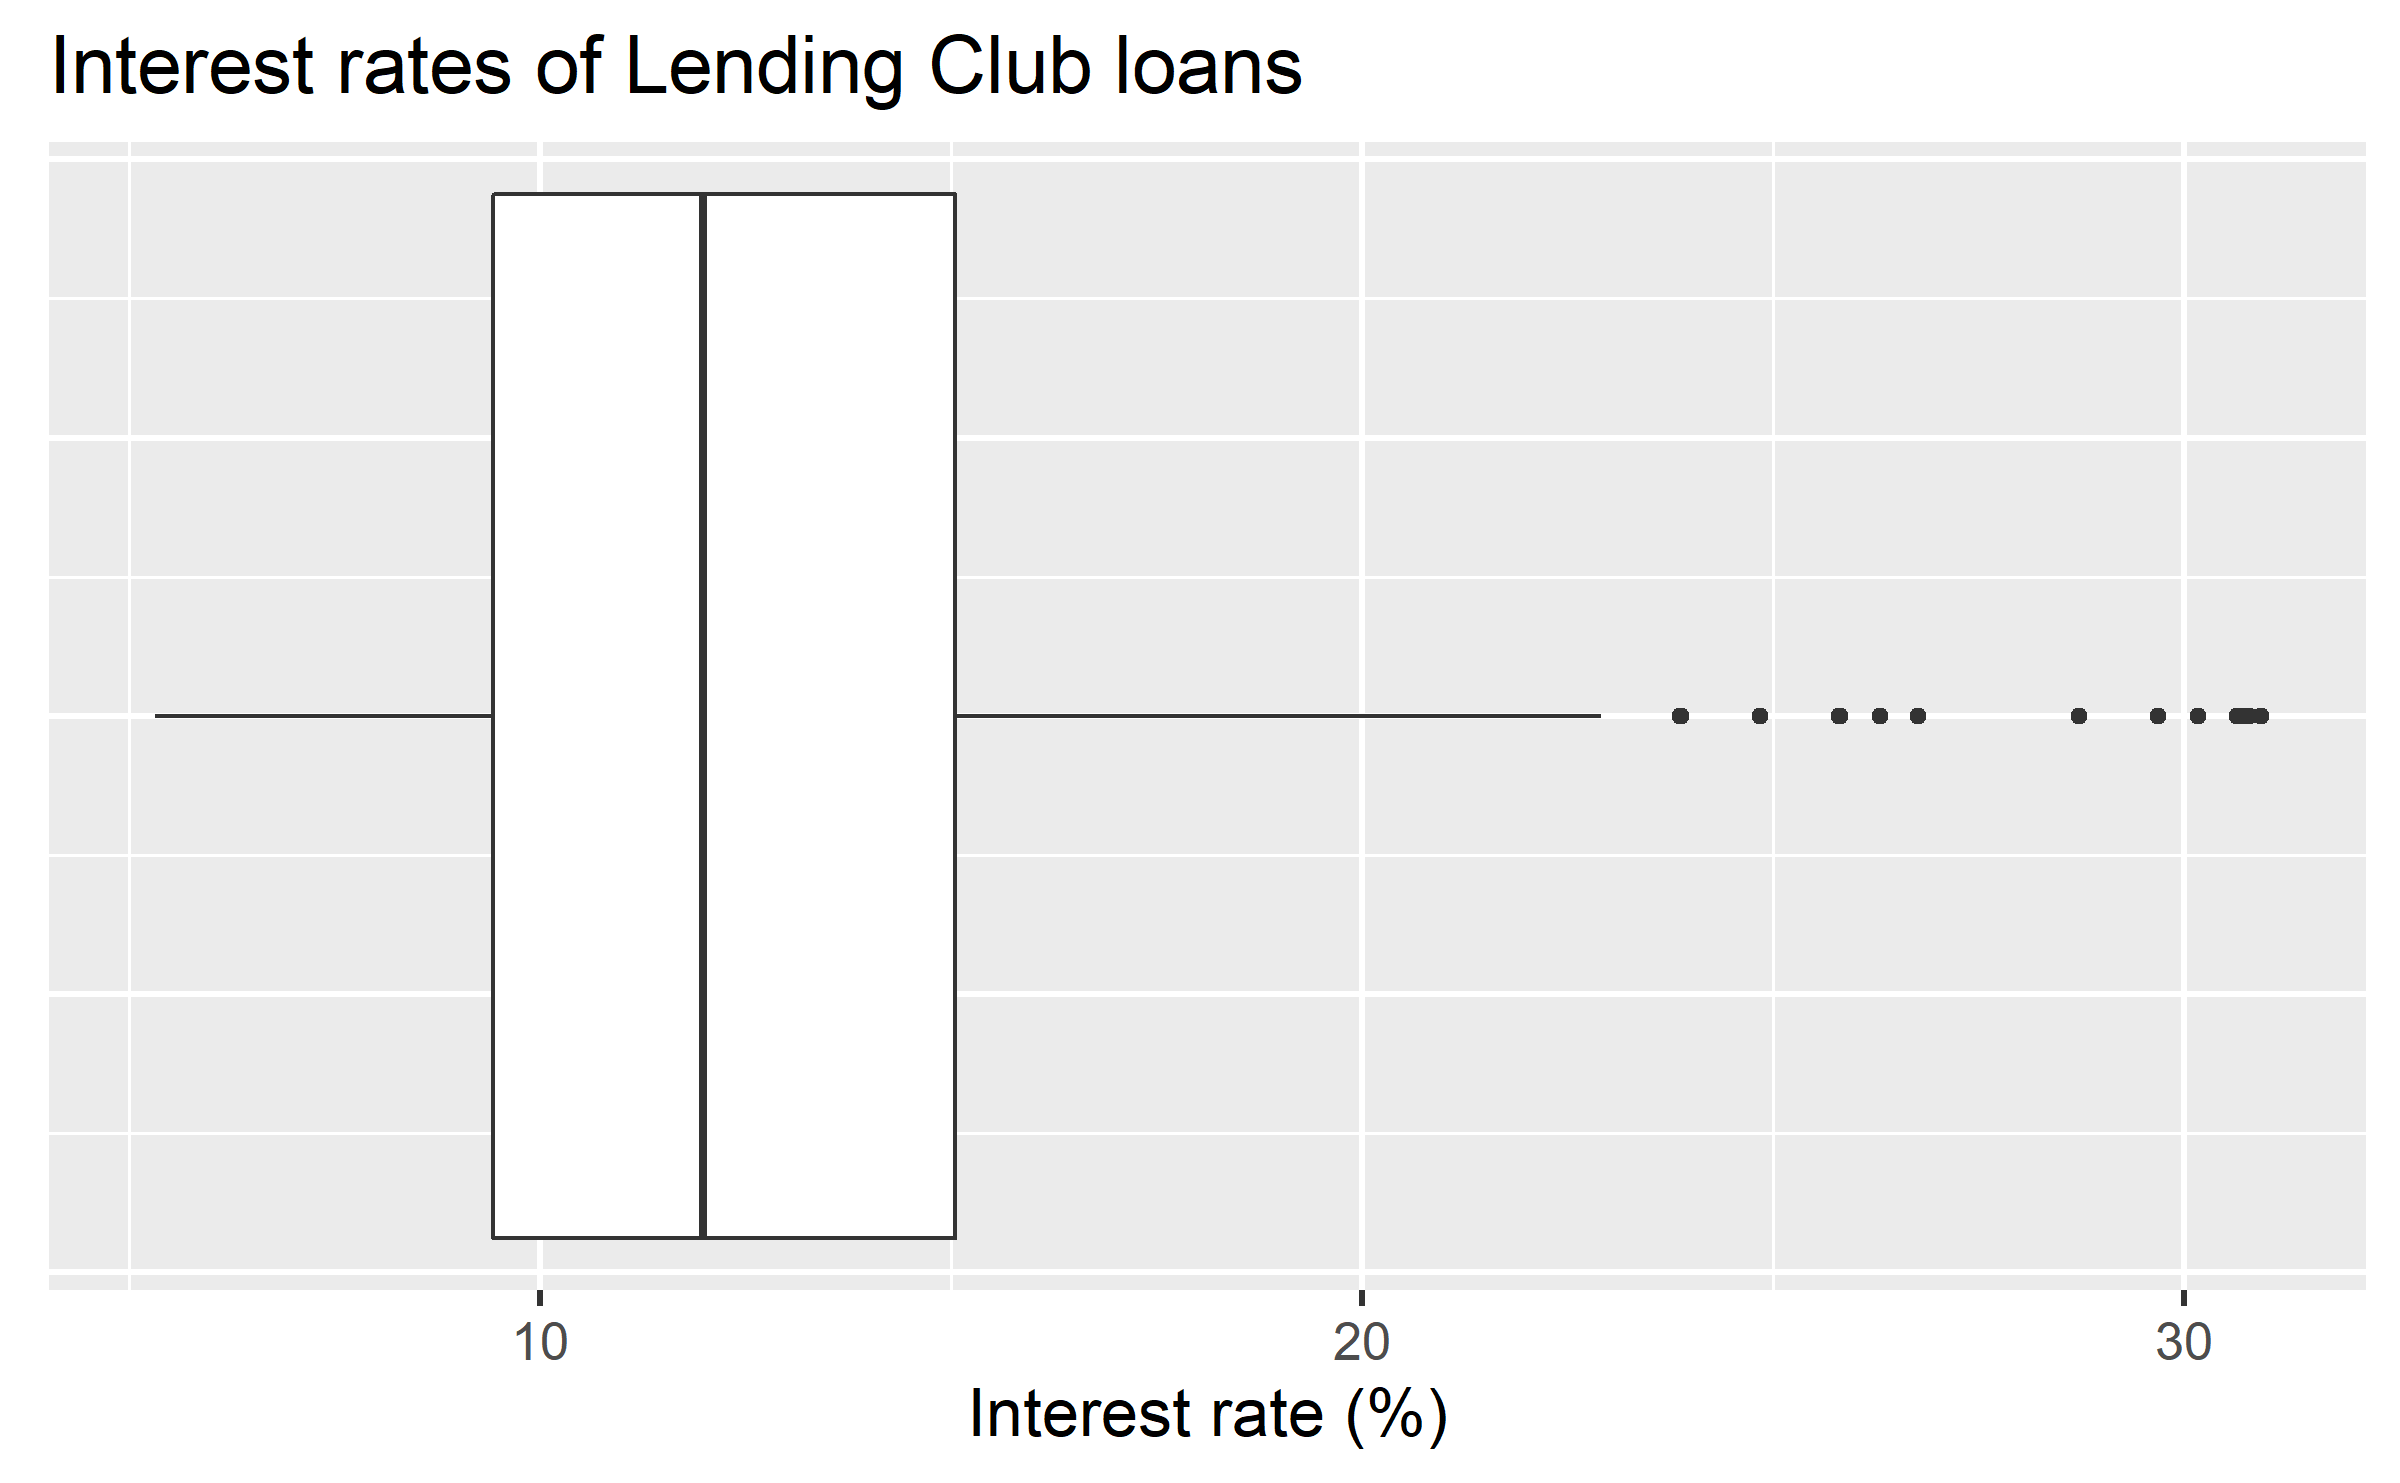
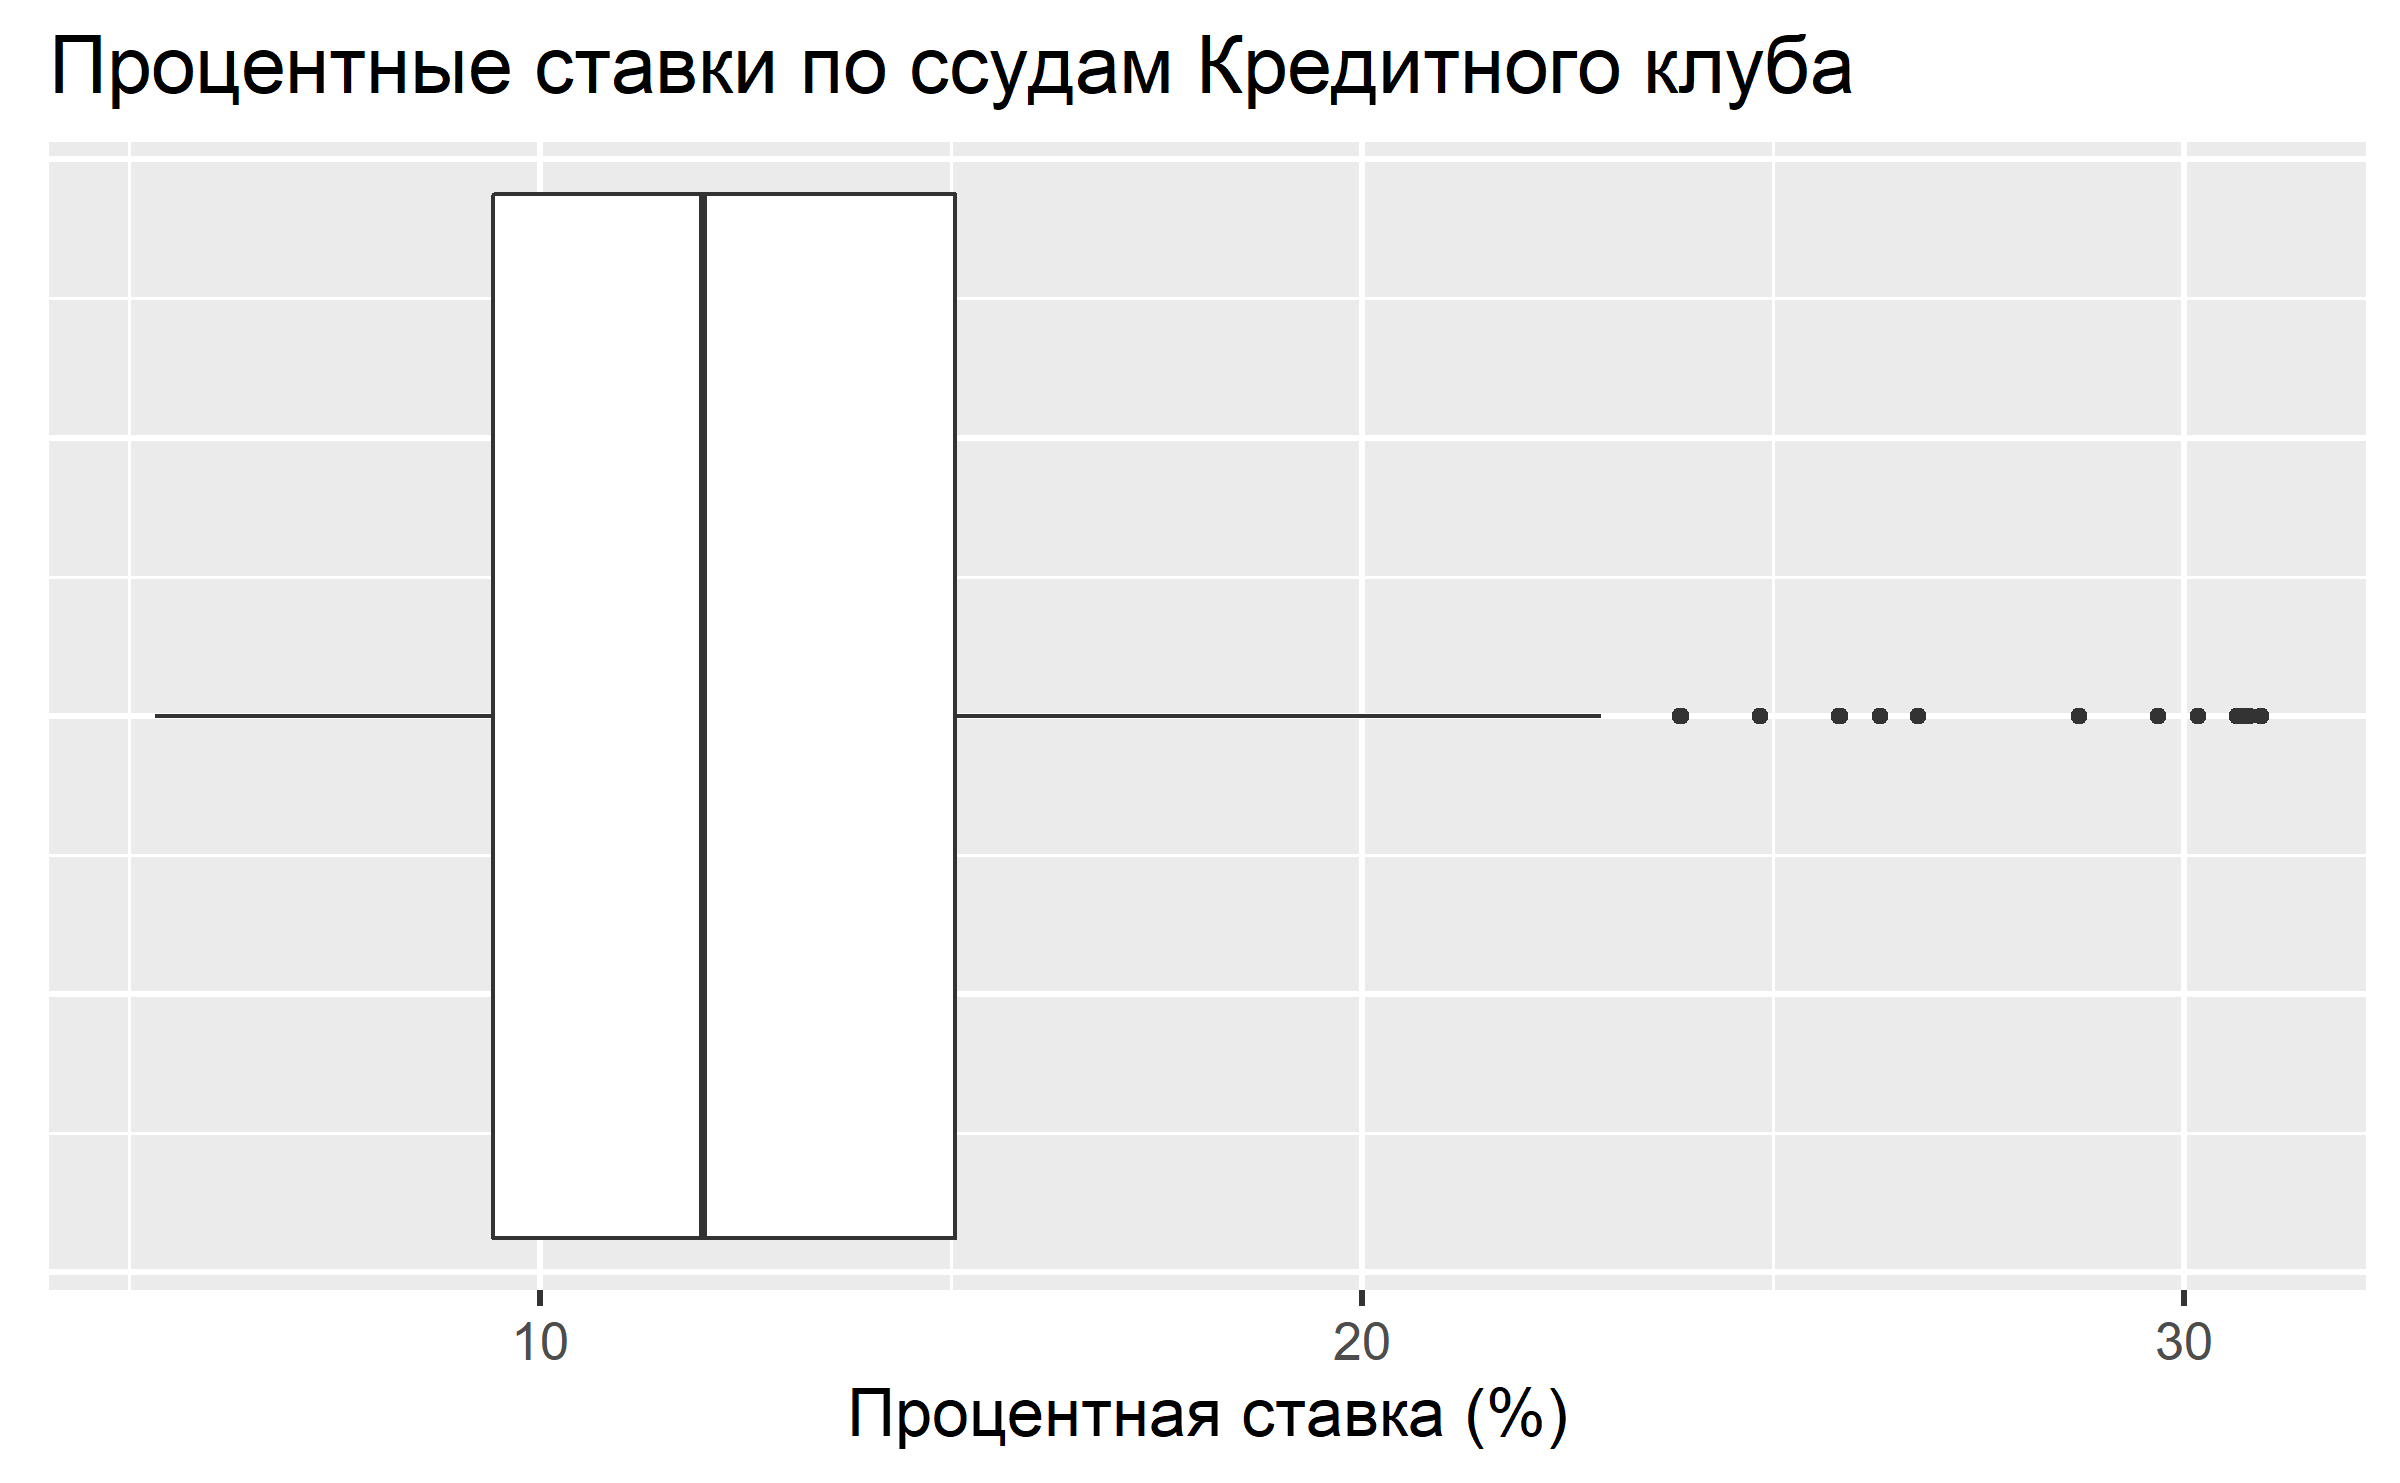
u2-d03 translation complete

Changed region(s): [[0.0312, 0.031, 0.7812, 0.0931], [0.3438, 0.9305, 0.6562, 0.9926]]

diff --git a/course-materials/slides/u2-d03-viz-num/u2-d03-viz-num.html b/course-materials/slides/u2-d03-viz-num/u2-d03-viz-num.html
@@ -148,10 +148,10 @@ glimpse(loans)
 `loan_amount`   |	Сумма полученного кредита в долларах США
 `interest_rate` |	Процентная ставка по кредиту, в процентах годовых
 `term`	        | Срок кредита, который всегда определяется как целое количество месяцев
-`grade`	        | Оценка ссуды, которая принимает значения от A до G и представляет качество ссуды и вероятность ее погашения
+`grade`	        | Оценка ссуды, которая принимает значения от A до G и отражает качество ссуды и вероятность ее погашения
 `state`         |	Штат США, где проживает заемщик
-`annual_income` |	Годовой доход заемщика, включая любой второй доход, в долларах США
-`homeownership`	| Указывает, владеет ли жильем человек, владеет по ипотеке или арендует
+`annual_income` |	Годовой доход заемщика, включая дополнительный доход, в долларах США
+`homeownership`	| Указывает, владеет ли заемщик жильем, владеет по ипотеке или арендует
 `debt_to_income` | Отношение долга к доходу
 ]
 
@@ -260,9 +260,9 @@ ggplot(loans, aes(x = loan_amount)) +
 ggplot(loans, aes(x = loan_amount)) +
   geom_histogram(binwidth = 5000) +
 * labs(
-*   x = "Loan amount ($)",
-*   y = "Frequency",
-*   title = "Amounts of Lending Club loans"
+*   x = "Размер ссуды ($)",
+*   y = "Частота",
+*   title = "Число ссуд Кредитного клуба"
 * )
 ```
 ]
@@ -270,7 +270,7 @@ ggplot(loans, aes(x = loan_amount)) +
 
 ---
 
-## Fill with a categorical variable
+## Заливка на основе категориальной переменной
 
 .panelset[
 .panel[.panel-name[Plot]
@@ -284,9 +284,9 @@ ggplot(loans, aes(x = loan_amount,
   geom_histogram(binwidth = 5000,
 *                alpha = 0.5) +
   labs(
-    x = "Loan amount ($)",
-    y = "Frequency",
-    title = "Amounts of Lending Club loans"
+    x = "Размер ссуды ($)",
+    y = "Частота",
+    title = "Число ссуд Кредитного клуба"
   )
 ```
 ]
@@ -294,7 +294,7 @@ ggplot(loans, aes(x = loan_amount,
 
 ---
 
-## Facet with a categorical variable
+## Панели на основе категориальной переменной
 
 .panelset[
 .panel[.panel-name[Plot]
@@ -306,9 +306,9 @@ ggplot(loans, aes(x = loan_amount,
 ggplot(loans, aes(x = loan_amount, fill = homeownership)) + 
   geom_histogram(binwidth = 5000) +
   labs(
-    x = "Loan amount ($)",
-    y = "Frequency",
-    title = "Amounts of Lending Club loans"
+    x = "Размер ссуды ($)",
+    y = "Частота",
+    title = "Число ссуд Кредитного клуба"
   ) +
 * facet_wrap(~ homeownership, nrow = 3)
 ```
@@ -319,11 +319,11 @@ ggplot(loans, aes(x = loan_amount, fill = homeownership)) +
 
 class: middle
 
-# Density plot
+# График плотности
 
 ---
 
-## Density plot
+## График плотности
 
 
 ```r
@@ -335,7 +335,7 @@ ggplot(loans, aes(x = loan_amount)) +
 
 ---
 
-## Density plots and adjusting bandwidth
+## Настройка ширины интервала 
 
 .panelset[
 .panel[.panel-name[adjust = 0.5]
@@ -369,7 +369,7 @@ ggplot(loans, aes(x = loan_amount)) +
 
 ---
 
-## Customizing density plots
+## Настройка графика плотности
 
 .panelset[
 .panel[.panel-name[Plot]
@@ -381,9 +381,9 @@ ggplot(loans, aes(x = loan_amount)) +
 ggplot(loans, aes(x = loan_amount)) +
   geom_density(adjust = 2) +
 * labs(
-*   x = "Loan amount ($)",
-*   y = "Density",
-*   title = "Amounts of Lending Club loans"
+*   x = "Размер ссуды ($)",
+*   y = "Частота",
+*   title = "Число ссуд Кредитного клуба"
 * )
 ```
 ]
@@ -391,7 +391,7 @@ ggplot(loans, aes(x = loan_amount)) +
 
 ---
 
-## Adding a categorical variable
+## Добавление категориальной переменной
 
 .panelset[
 .panel[.panel-name[Plot]
@@ -405,10 +405,10 @@ ggplot(loans, aes(x = loan_amount,
   geom_density(adjust = 2, 
 *              alpha = 0.5) +
   labs(
-    x = "Loan amount ($)",
-    y = "Density",
-    title = "Amounts of Lending Club loans", 
-*   fill = "Homeownership"
+    x = "Размер ссуды ($)",
+    y = "Частота",
+    title = "Число ссуд Кредитного клуба",
+*   fill = "Недвижимость"
   )
 ```
 ]
@@ -418,11 +418,11 @@ ggplot(loans, aes(x = loan_amount,
 
 class: middle
 
-# Box plot
+# Диаграмма размаха
 
 ---
 
-## Box plot
+## Диаграмма размаха
 
 
 ```r
@@ -434,7 +434,7 @@ ggplot(loans, aes(x = interest_rate)) +
 
 ---
 
-## Box plot and outliers
+## Диаграмма размаха и уклоняющиеся значения
 
 
 ```r
@@ -446,7 +446,7 @@ ggplot(loans, aes(x = annual_income)) +
 
 ---
 
-## Customizing box plots
+## Настройка диаграммы размаха
 
 .panelset[
 .panel[.panel-name[Plot]
@@ -458,9 +458,9 @@ ggplot(loans, aes(x = annual_income)) +
 ggplot(loans, aes(x = interest_rate)) +
   geom_boxplot() +
   labs(
-    x = "Interest rate (%)",
+    x = "Процентная ставка (%)",
     y = NULL,
-    title = "Interest rates of Lending Club loans"
+    title = "Процентные ставки по ссудам Кредитного клуба"
   ) +
 * theme(
 *   axis.ticks.y = element_blank(),
@@ -472,7 +472,7 @@ ggplot(loans, aes(x = interest_rate)) +
 
 ---
 
-## Adding a categorical variable
+## Добавление категориальной переменной
 
 .panelset[
 .panel[.panel-name[Plot]
@@ -485,10 +485,10 @@ ggplot(loans, aes(x = interest_rate,
 *                 y = grade)) +
   geom_boxplot() +
   labs(
-    x = "Interest rate (%)",
-    y = "Grade",
-    title = "Interest rates of Lending Club loans",
-*   subtitle = "by grade of loan"
+    x = "Процентная ставка (%)",
+    y = "Класс качества",
+    title = "Процентные ставки по ссудам Кредитного клуба",
+*   subtitle = "по классам качества"
   )
 ```
 ]
@@ -498,11 +498,11 @@ ggplot(loans, aes(x = interest_rate,
 
 class: middle
 
-# Relationships numerical variables
+# Отношения между числовыми переменными
 
 ---
 
-## Scatterplot
+## Диаграмма рассеяния
 
 
 ```r
@@ -514,7 +514,7 @@ ggplot(loans, aes(x = debt_to_income, y = interest_rate)) +
 
 ---
 
-## Hex plot
+## Гексагональный график
 
 
 ```r
@@ -526,7 +526,7 @@ ggplot(loans, aes(x = debt_to_income, y = interest_rate)) +
 
 ---
 
-## Hex plot
+## Гексагональный график
 
 
 ```r
